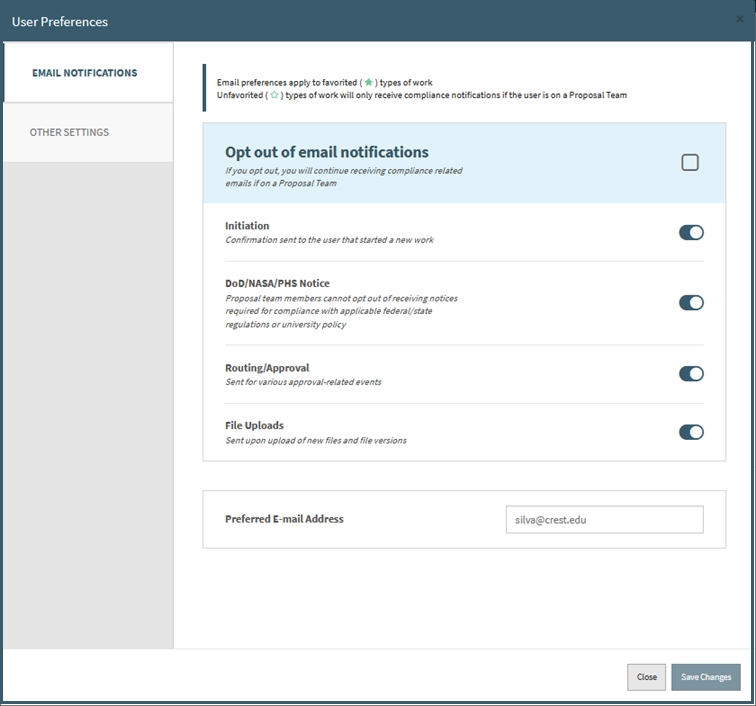
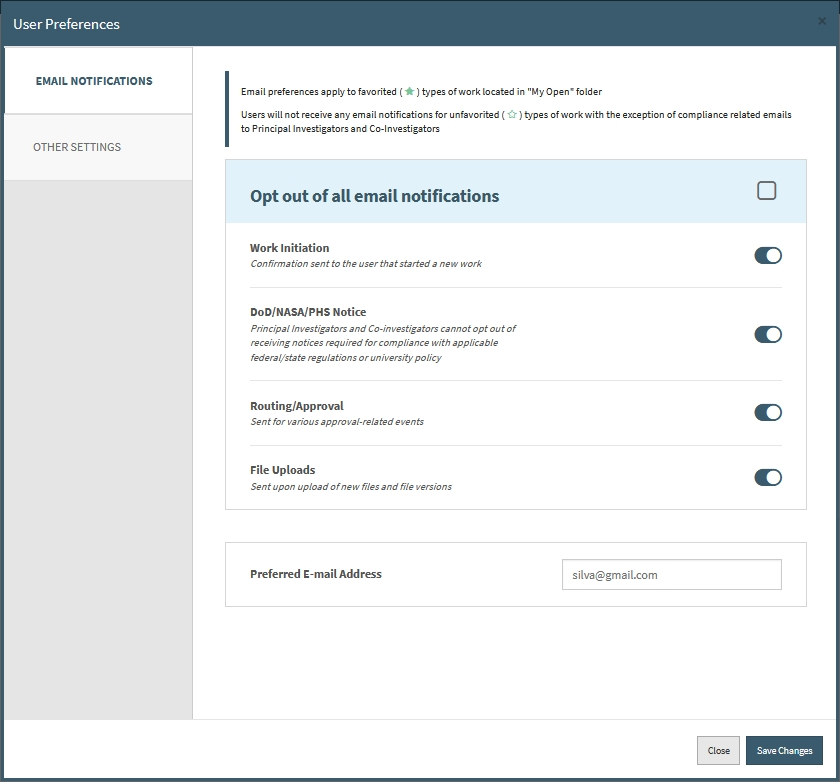
Updated user guide

diff --git a/docs/Navigation/preferences.md b/docs/Navigation/preferences.md
@@ -12,13 +12,17 @@ To get to this section, click your name at the top right of Summit and then clic
 
 ![User Preferences Location](../images/navigation/NavPref_managePrefLocation.jpg)
 
-<br>
+<img src="/images/down_arrow.png" alt="down_arrow" style="float:center; width:45px; height:70px;">
 
 ![User Preferences Modal](../images/navigation/NavPref_ModalFull.jpg)
 
+<br>
+
 ## E-mail Preferences
 
-Depending on your role within a proposal and if you have the proposal favorited, will determine what email notifications you will receive.
+Depending on your role within a proposal and if you have the proposal favorited, will determine what email notifications you will receive.  The one exception to this is if you are on the Proposal Team (PI, Co-PI, Proposal Team member) you will receive compliance email regardless of your email settings.  
+
+Below shows every email notification currently in Summit, what category that email corresponds to in the user preferences screen, who will receive that email, and any special circumstances around the email.
 
 <style>
 table {
@@ -52,10 +56,10 @@ tr:nth-child(odd) {
 </style>
 
 <table>
-<caption>List of All Email Notifications</caption>
+  <col width=16%>
   <col width=19%>
-  <col width=41%>
   <col width=40%>
+  <col width=25%>
   <tr>
     <th>Email Notification</th>
     <th>Category</th>
@@ -64,48 +68,67 @@ tr:nth-child(odd) {
   </tr>
   <tr>
     <td>Work Initiation</td>
-    <td>Initiation</td>
+    <td>Work Initiation</td>
     <td>Work Creator & Pre Award Associate</td>
     <td>All can opt out</td>
   </tr>
   <tr>
+    <td>DoD Notice</td>
     <td>DoD / NASA / PHS Notice</td>
+    <td>Proposal Team, Support Staff, Pre Award Associate</td>
+    <td>Proposal Team cannot opt out, Support Staff can opt out</td>
+  </tr>
+  <tr>
+    <td>NASA Notice</td>
+    <td>DoD / NASA / PHS Notice</td>
+    <td>Proposal Team, Support Staff, Pre Award Associate</td>
+    <td>Proposal Team cannot opt out, Support Staff can opt out</td>
+  </tr>
+  <tr>
+    <td>PHS Notice</td>
     <td>DoD / NASA / PHS Notice</td>
     <td>Proposal Team, Support Staff, Pre Award Associate</td>
     <td>Proposal Team cannot opt out, Support Staff can opt out</td>
   </tr>
   <tr>
     <td>Awaiting Approval</td>
-    <td>Initiation</td>
-    <td>Immediate Approvers in the org</td>
+    <td>Routing/Approval</td>
+    <td>Immediate Approvers in the organization</td>
     <td>All can opt out</td>
   </tr>
   <tr>
     <td>Routing Canceled</td>
+    <td>Routing/Approval</td>
     <td>Proposal Team, Support Staff, Approvers, Pre Award Associate</td>
     <td>All can opt out</td>
   </tr>
   <tr>
     <td>Return for Correction</td>
+    <td>Routing/Approval</td>
     <td>Proposal Team, Support Staff, Approvers, Pre Award Associate</td>
     <td>All can opt out</td>
   </tr>
   <tr>
     <td>Approval Discarded</td>
+    <td>Routing/Approval</td>
     <td>Proposal Team, Support Staff, Approvers, Pre Award Associate</td>
     <td>All can opt out</td>
   </tr>
   <tr>
+    <td>File Uploads</td>
+    <td>File Uploads</td>
+    <td>Proposal Team, Support Staff, Pre Award Associate</td>
+    <td>All can opt out</td>
+  </tr>
+  <tr>
+    <td>File Version Uploads</td>
     <td>File Uploads</td>
     <td>Proposal Team, Support Staff, Pre Award Associate</td>
     <td>All can opt out</td>
   </tr>
 </table>
 
-  * Proposal Team member - PI, Co-PI, Proposal Team member
-  * Support Staff - users that are from the submitting or credit organization associated with a named Proposal Team member
-  * Approvers - users that are designated approver or approver delegates from the submitting or credit organizations being used in the work
-  * Pre Award Associate - the assigned Pre Award associate on the proposal
+<br>
 
 **Preferred E-mail Address**
     - By default the email listed here will be the user's pid + @vt.edu, but users can elect to use another email address for Summit communication emails.
